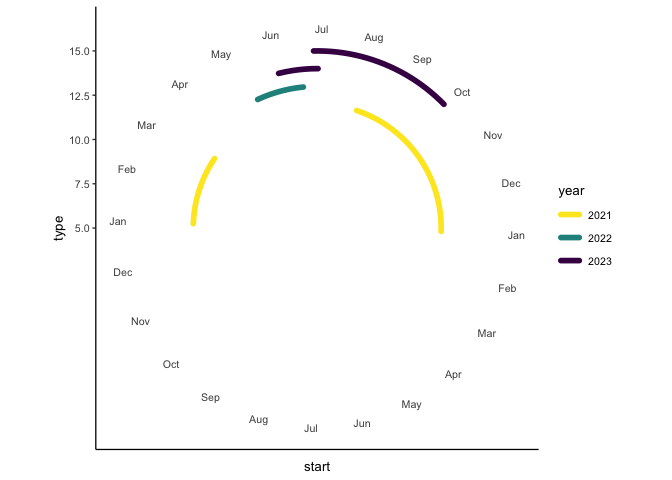
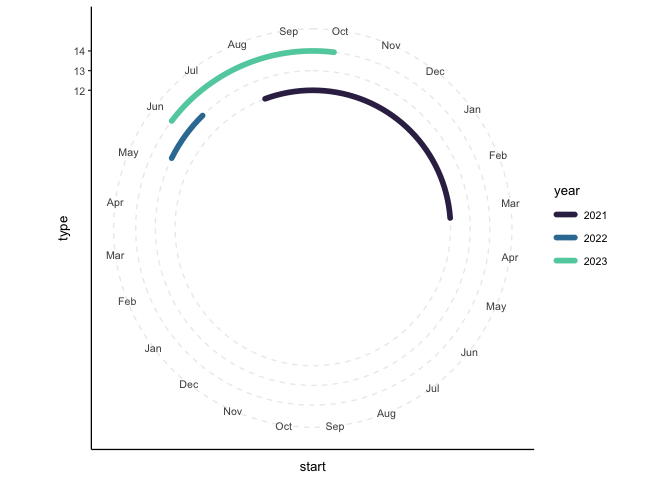
rotate and match colours

diff --git a/code/exploration/2023-12-15_calendar-fig.md b/code/exploration/2023-12-15_calendar-fig.md
@@ -1,7 +1,7 @@
 Make survey calendar figure
 ================
 eleanorjackson
-18 December, 2023
+28 February, 2024
 
 ``` r
 library("tidyverse")
@@ -98,25 +98,29 @@ ggplot(survey_segs,
 
 ``` r
 survey_segs_2 <- tibble(
-  year = factor(c(2022, 2023, 2023, 2021, 2021)),
-  start = as.Date(c("2023-05-09", "2023-05-31", "2023-06-26", "2023-08-05", 
-                    "2023-01-01"), format = "%Y-%m-%d"),
-  end = as.Date(c("2023-06-17", "2023-06-29", "2023-09-29", "2023-12-31", 
-                  "2023-03-07"), format = "%Y-%m-%d"),
-  type = c(13, 14, 15, 12, 12))
+  year = factor(c(2022, 2023, 2021)),
+  start = as.Date(c("2023-05-09", "2023-05-31", "2023-08-05" 
+                    ), format = "%Y-%m-%d"),
+  end = as.Date(c("2023-06-17", "2023-09-29", 
+                  "2024-03-07"), format = "%Y-%m-%d"),
+  type = c(13, 14, 12))
 ```
 
 ``` r
+pal <- viridisLite::viridis(n = 3, begin = 0.2, end = 0.8, option = "mako")
+names(pal) <- c("2021", "2022", "2023")
+
 ggplot(survey_segs_2, 
        aes(x = start, xend = end, y = type, yend = type, 
            colour = year, group = year)) +
   geom_segment(linewidth = 2, lineend = "round") +
-  coord_polar(start = -89.5) +
-  ylim(5, 15) +
+  coord_polar(start = 180) +
   scale_x_date(date_breaks = "1 month",  expand = c(0,0),
                date_labels = "%b",
                limits = as.Date(c("2023-01-01", "2024-12-31"))) +
-  scale_color_manual(values = c("#fde725", "#21918c", "#440154"))
+  scale_color_manual(values = pal) +
+  theme(panel.grid.major.y = element_line(linetype = 2)) +
+  scale_y_continuous(breaks = c(12, 13, 14), limits = c(5, 14))
 ```
 
 ![](figures/2023-12-15_calendar-fig/unnamed-chunk-10-1.png)<!-- -->
@@ -133,12 +137,12 @@ ggplot(survey_segs_2,
        aes(x = start, xend = end, y = type, yend = type, 
            colour = year, group = year)) +
   geom_segment(linewidth = 5, lineend = "round") +
-  coord_polar(start = -89.5) +
+  coord_polar(start = 180) +
   ylim(5, 15) +
   scale_x_date(date_breaks = "1 month",  expand = c(0,0),
                date_labels = "%b",
                limits = as.Date(c("2023-01-01", "2024-12-31"))) +
-  scale_color_manual(values = c("#fde725", "#21918c", "#440154")) +
+  scale_color_manual(values = pal) +
   theme_classic(base_size = 35)
 dev.off()
 ```
